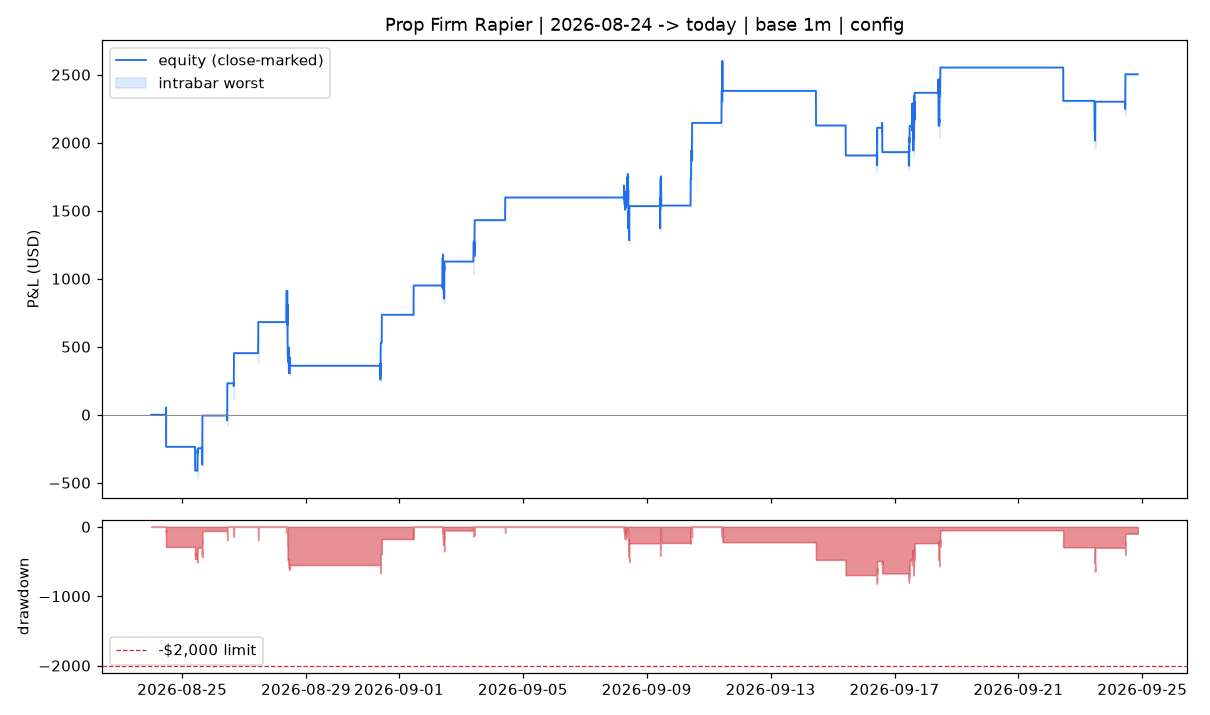
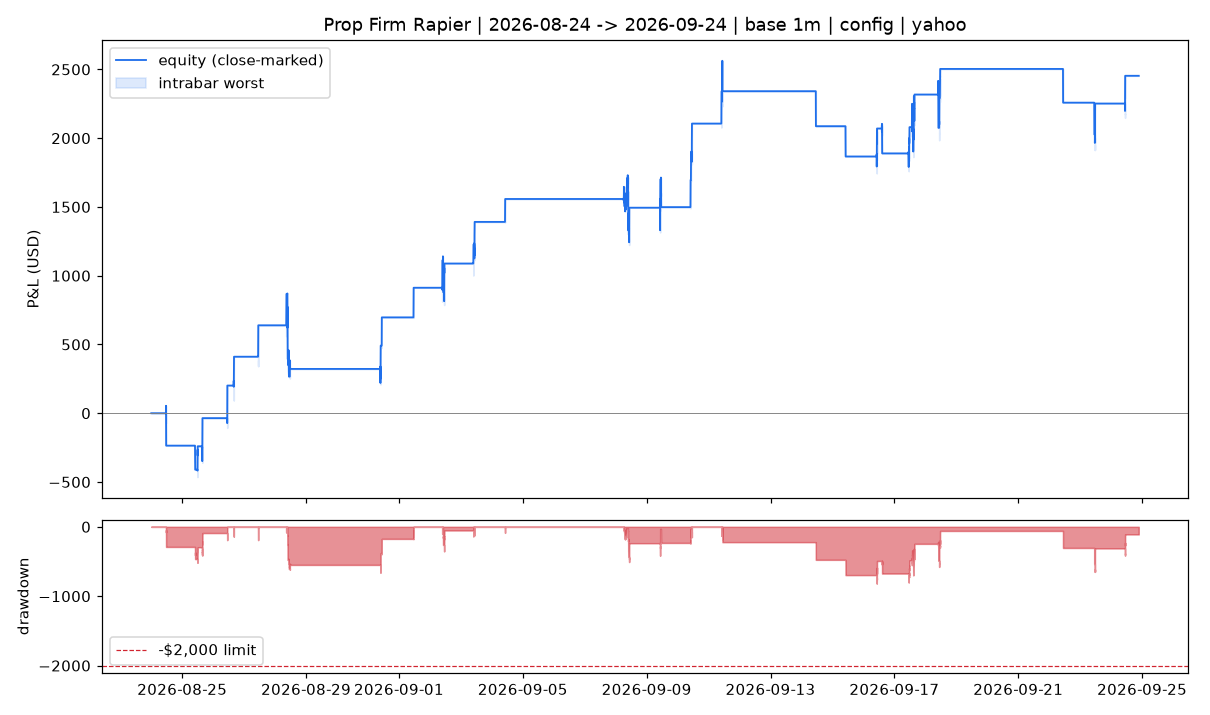
Fill-realistic market entries: backtest at next open, live target re-anchored on the real fill
FX Replay verification (37/37 matched trades) found market entries filling -8..+17
ticks from the engine price, which left some brackets below 1R.

* backtest: confirmation entries fill at the next bar's open + slippage (session
  gaps fall back to the close); 5m/1m reports regenerated, no outcome flips
* executor: after a market entry fills, move its target to the planned R from the
  actual fill (brokers exposing fill_price/amend_target: IBKR, SimBroker)
* Tradara keeps the static 2-tick pad (no documented modify endpoint)
* SimBroker(oca=False) to measure Tradara's lack of cross-group OCA
* tests for adverse/good fills, no-amend fallback and the IBKR modify path

diff --git a/rapier/executor.py b/rapier/executor.py
@@ -120,8 +120,9 @@ class Executor:
         return None
 
     def _place(self, key: str, book: str, side: int, mnq: int, entry, stop, target, last, out,
-               ref_entry: float | None = None) -> bool:
-        """``entry=None`` sends a market entry; ``ref_entry`` is the engine's price for it."""
+               ref_entry: float | None = None, r_mult: float | None = None) -> bool:
+        """``entry=None`` sends a market entry; ``ref_entry`` is the engine's price for it and
+        ``r_mult`` its planned reward:risk, re-applied to the real fill where the broker allows."""
         qty = self._qty(mnq)
         if qty < 1:
             self._note(f"skip {key}: size {mnq} MNQ is below one {self.broker.name} contract", out, f"small:{key}")
@@ -137,11 +138,37 @@ class Executor:
         self.state["orders"][key] = {"attempt": rec["attempt"] + 1, "prefix": prefix, "book": book,
                                      "status": "sent", "side": side, "qty": qty,
                                      "levels": [None if entry is None else round_tick(entry),
-                                                round_tick(stop), round_tick(target)]}
+                                                round_tick(stop), round_tick(target)],
+                                     "r_mult": r_mult}
         self._note(f"PLACE {book} {'BUY' if side > 0 else 'SELL'} x{qty} "
                    f"entry={'MKT' if entry is None else round_tick(entry)} stop={round_tick(stop)} "
                    f"target={round_tick(target)} [{prefix}]", out)
         return True
+
+    def _reanchor_targets(self, out: list) -> None:
+        """Market entries fill away from the engine's price (FX Replay: -8..+17 ticks), so move
+        each filled market bracket's target to the planned R measured from the actual fill."""
+        fill_price = getattr(self.broker, "fill_price", None)
+        amend = getattr(self.broker, "amend_target", None)
+        if not (fill_price and amend):
+            return  # e.g. Tradara: no documented amend; the static slippage pad stays
+        active = {p for p, g in self.broker.groups().items() if g["state"] == "active"}
+        for rec in self.state["orders"].values():
+            p = rec.get("prefix")
+            if rec.get("r_mult") is None or rec.get("reanchored") or p not in active:
+                continue
+            fill = fill_price(p)
+            if fill is None:
+                continue
+            rec["reanchored"] = True
+            side, stop, old = rec["side"], rec["levels"][1], rec["levels"][2]
+            if side * (fill - stop) <= 0:
+                continue  # filled through the stop; the stop order handles it
+            new = round_out(fill + side * rec["r_mult"] * abs(fill - stop), side)
+            if new != old and amend(p, new):
+                rec["levels"][2] = new
+                self._note(f"AMEND {p}: filled {fill}, target {old} -> {new} "
+                           f"({rec['r_mult']:.2f}R from the actual fill)", out)
 
     def _kill(self, reason: str, day: str, out: list) -> None:
         self.broker.flatten()
@@ -202,12 +229,15 @@ class Executor:
             key = f"{t.book}:{t.side}:{t.entry_time}"
             if t.book in v.confirm_books and t.entry_time == v.last_bar and pos == 0 and key not in self.state["orders"]:
                 pad = 2 * self.cfg.market_slip_ticks * 0.25
+                r_mult = t.side * (t.tp1 - t.entry) / abs(t.entry - t.cur_stop)
                 if self._place(key, t.book, t.side, t.qty, None, t.cur_stop, round_out(t.tp1 + t.side * pad, t.side),
-                               v.last_close, out, ref_entry=t.entry):
+                               v.last_close, out, ref_entry=t.entry, r_mult=r_mult):
                     pos = t.side  # treat as filled for the OCA logic below
+                    self._reanchor_targets(out)
 
         # one position at a time: a live position cancels every other working entry
         if pos:
+            self._reanchor_targets(out)
             for p, g in groups.items():
                 if g["state"] == "working":
                     self.broker.cancel(p)

diff --git a/rapier/brokers/base.py b/rapier/brokers/base.py
@@ -52,6 +52,9 @@ class Broker(Protocol):
     def cancel(self, prefix: str) -> None: ...
     def flatten(self) -> None: ...
     def day_pnl(self) -> float | None: ...
+    # optional: brokers that can report entry fills and move a working target implement
+    #   fill_price(prefix) -> float | None   and   amend_target(prefix, target) -> bool
+    # so the executor can re-anchor a market entry's target on the real fill price
 
 
 class DryRunBroker:
@@ -122,6 +125,7 @@ class SimBroker:
     thru: float = TICK
     units_per_contract: int = 1
     name: str = "sim"
+    oca: bool = True  # False mimics Tradara: separate OTOCO groups, no cross-cancel
     _g: dict = field(default_factory=dict)
     _pos: int = 0
     _flatten: bool = False
@@ -143,6 +147,17 @@ class SimBroker:
         g = self._g.get(prefix)
         if g and g.state == "working":
             g.state = "cancelled"
+
+    def fill_price(self, prefix):
+        g = self._g.get(prefix)
+        return g.fill if g and g.state == "active" else None
+
+    def amend_target(self, prefix, target):
+        g = self._g.get(prefix)
+        if not (g and g.state == "active"):
+            return False
+        g.target = target
+        return True
 
     def flatten(self):
         self._flatten = True
@@ -174,7 +189,7 @@ class SimBroker:
                 elif g.side * (favor - g.target) >= 0:
                     self._close(p, g, g.target, t, "target")
         for p, g in list(self._g.items()):
-            if g.state != "working" or self._pos != 0:
+            if g.state != "working" or (self.oca and self._pos != 0):
                 continue
             if g.entry is None:
                 g.fill = o + g.side * self.slip
@@ -184,15 +199,17 @@ class SimBroker:
                 continue
             g.state, g.fill_time = "active", t
             self._pos += g.side * g.qty
-            for q in self._g.values():  # OCA
-                if q is not g and q.state == "working":
-                    q.state = "cancelled"
+            if self.oca:
+                for q in self._g.values():
+                    if q is not g and q.state == "working":
+                        q.state = "cancelled"
             adverse = l if g.side > 0 else h
             if g.side * (adverse - g.stop) <= 0:
                 self._close(p, g, g.stop - g.side * self.slip, t, "stop")
             elif g.side * (c - g.target) >= 0 and g.entry is not None:
                 self._close(p, g, g.target, t, "target")
-            break
+            if self.oca:
+                break
 
 
 def _root_of(symbol: str) -> str:

diff --git a/tests/test_executor.py b/tests/test_executor.py
@@ -209,3 +209,41 @@ def test_state_persists_across_restart(tmp_path):
     assert json.loads(p.read_text())["orders"]["ote-1h:1:100"]["prefix"] == prefix_for("ote-1h:1:100")
     ex2 = Executor(b, state_path=p)
     assert ex2.step(view(armed=[limit()]), wall()) == []
+
+
+def _market_entry(broker, open_px):
+    ex = Executor(broker, ExecConfig(live_books=("scalp-5m",)))
+    tr = SimpleNamespace(book="scalp-5m", side=1, qty=5, entry=20010.25, cur_stop=19980.0, tp1=20040.5, entry_time=T0)
+    ex.step(view(open_trades=[tr], confirm_books=frozenset({"scalp-5m"})), wall())
+    if isinstance(broker, SimBroker):
+        broker.on_bar(T0 + pd.Timedelta("1min"), open_px, open_px + 0.5, open_px - 0.5, open_px)
+    t1 = T0 + pd.Timedelta("1min")
+    return ex, tr, ex.step(view(t1, open_trades=[tr], confirm_books=frozenset({"scalp-5m"})), wall(t1))
+
+
+def test_market_target_reanchored_on_adverse_fill():
+    # FX Replay case: a market entry filled 17 ticks worse than the engine price -> 0.87R
+    b = SimBroker()
+    ex, tr, out = _market_entry(b, 20014.25)
+    (g,) = b._g.values()
+    assert g.fill == 20014.5
+    assert any(m.startswith("AMEND") for m in out)
+    assert g.target - g.fill >= g.fill - g.stop  # >= 1R from the real fill
+    assert g.target == 20049.0
+    # done once: a later cycle leaves it alone
+    t2 = T0 + pd.Timedelta("2min")
+    assert not any("AMEND" in m for m in ex.step(view(t2, open_trades=[tr]), wall(t2)))
+
+
+def test_market_target_pad_removed_on_good_fill():
+    b = SimBroker()
+    _, _, out = _market_entry(b, 20008.0)
+    (g,) = b._g.values()
+    assert g.target - g.fill == pytest.approx(g.fill - g.stop, abs=0.25)
+
+
+def test_brokers_without_amend_keep_the_static_pad():
+    b = DryRunBroker()
+    _, _, out = _market_entry(b, 20014.25)
+    assert not any("AMEND" in m for m in out)
+    assert b.log[0][-1] == 20041.5  # tp1 + 2 x 2 ticks

diff --git a/rapier/backtest.py b/rapier/backtest.py
@@ -199,6 +199,7 @@ def run(mkt: Market, books: tuple[BookConfig, ...], risk: RiskConfig,
     f_sph = feat["swept_pdh"].fillna(False).to_numpy(dtype=bool)
     t_ns = base.index.asi8
     o, h, l, c = (base[x].to_numpy() for x in ("open", "high", "low", "close"))
+    bar_len = base.index.to_series().diff().median() if len(base) > 1 else pd.Timedelta(0)
     base_delta = pd.Timedelta(mkt.base.index.to_series().diff().mode().iloc[0])
     hours = (base.index.hour + base.index.minute / 60).to_numpy()
     end_hours = hours + base_delta / pd.Timedelta("1h")
@@ -328,7 +329,11 @@ def run(mkt: Market, books: tuple[BookConfig, ...], risk: RiskConfig,
                     pending.pop(bi_)
                 elif side * (c[i] - o[i]) > 0 and side * (c[i] - pd_["E"]) > 0:
                     pending.pop(bi_)
-                    entry = c[i] + side * slip
+                    # the market order goes out after this close and fills at the next bar's
+                    # open (FX Replay showed up to 17 ticks between the two); a session gap
+                    # falls back to the close
+                    contiguous = i + 1 < len(o) and base.index[i + 1] - when <= 2 * bar_len
+                    entry = (o[i + 1] if contiguous else c[i]) + side * slip
                     if pd_["cfg"].fixed_stop_pts:
                         stop = entry - side * pd_["cfg"].fixed_stop_pts
                     _open(pd_["cfg"], bi_, side, entry, stop, pd_["H"], pd_["D"], when, i,

diff --git a/tests/test_brokers.py b/tests/test_brokers.py
@@ -143,3 +143,25 @@ def test_frames_from_1m_splices_long_history():
     assert fr["1h"].index[0] == h1.index[0]
     assert fr["1h"].close.loc[: "2026-09-14 08:00"].eq(100.0).all()  # shifted by the overlap difference
     assert set(fr) == {"1m", "5m", "15m", "1h"}
+
+
+def test_ibkr_fill_price_and_target_amend():
+    from types import SimpleNamespace as NS
+
+    from rapier.brokers.ibkr import IBKRBroker
+
+    def trade(pid, typ, status, avg=0.0, px=None):
+        o = NS(orderRef="rp-a", parentId=pid, orderType=typ, lmtPrice=px, transmit=False)
+        return NS(order=o, orderStatus=NS(status=status, avgFillPrice=avg), isDone=lambda: status == "Filled")
+
+    parent, tp = trade(0, "MKT", "Filled", 20014.5), trade(1, "LMT", "Submitted", px=20041.5)
+    placed = []
+    ib = NS(isConnected=lambda: True, trades=lambda: [parent, tp, trade(1, "STP", "Submitted")],
+            placeOrder=lambda c, o: placed.append(o), sleep=lambda s: None)
+    b = IBKRBroker(ib=ib)
+    b._c = NS(conId=1)
+    b.contract = lambda: b._c
+    assert b.fill_price("rp-a") == 20014.5
+    assert b.fill_price("rp-zz") is None
+    assert b.amend_target("rp-a", 20049.0) and placed == [tp.order]
+    assert tp.order.lmtPrice == 20049.0 and tp.order.transmit

diff --git a/rapier/brokers/ibkr.py b/rapier/brokers/ibkr.py
@@ -93,6 +93,28 @@ class IBKRBroker:
             if t.order.orderRef == prefix:
                 self._conn().cancelOrder(t.order)
 
+    def _by_ref(self, prefix):
+        # trades() also holds finished orders; a filled parent drops out of openTrades()
+        return [t for t in self._conn().trades() if t.order.orderRef == prefix]
+
+    def fill_price(self, prefix):
+        for attempt in range(2):
+            for t in self._by_ref(prefix):
+                if t.order.parentId == 0 and t.orderStatus.status == "Filled" and t.orderStatus.avgFillPrice:
+                    return float(t.orderStatus.avgFillPrice)
+            if attempt == 0:
+                self._conn().sleep(0.5)  # let a just-sent market order's fill arrive
+        return None
+
+    def amend_target(self, prefix, target):
+        for t in self._by_ref(prefix):
+            if t.order.parentId != 0 and t.order.orderType == "LMT" and not t.isDone():
+                t.order.lmtPrice = round_tick(target)
+                t.order.transmit = True
+                self._conn().placeOrder(self.contract(), t.order)  # same orderId = modify
+                return True
+        return False
+
     def flatten(self):
         from ib_async import MarketOrder
 

diff --git a/README.md b/README.md
@@ -63,17 +63,19 @@ The final parameters live in [`rapier/rapier_config.json`](rapier/rapier_config.
 
 All numbers are after commissions ($1.50 per micro round turn) and 1-tick slippage on stops, with a
 conservative fill model (see *Backtest realism*). Drawdown is marked to the worst intrabar price.
+Market entries (confirmation books such as `scalp-5m`) fill at the **next bar's open** plus 1 tick, not at
+the signal close. FX Replay verification showed live market fills landing up to 17 ticks from the close.
 
 | run | period | trades | win rate | net | max DD | best trade | PF |
 |---|---|---|---|---|---|---|---|
 | **Main (requested window)** | 2025-07-26 → 2026-09-24 | 20 | **60.0%** | **+$2,793** | **$892** | $1,614 | 2.25 |
 | Out-of-sample (never optimised on) | 2024-06-15 → 2025-07-25 | 32 | 65.6% | +$1,925 | $992 | $400 | 1.70 |
-| Books up to 5m, 5m clock | 2026-06-26 → 2026-09-24 | 29 | 72.4% | +$2,710 | $754 | $246 | 2.80 |
-| All books incl. teacher-1m, 1m clock | 2026-08-24 → 2026-09-24 | 44 | 65.9% | +$2,503 | $819 | $242 | 1.76 |
+| Books up to 5m, 5m clock | 2026-06-26 → 2026-09-24 | 29 | 72.4% | +$2,551 | $668 | $244 | 2.69 |
+| All books incl. teacher-1m, 1m clock | 2026-08-24 → 2026-09-24 | 44 | 65.9% | +$2,454 | $819 | $237 | 1.75 |
 | Swing-overnight variant | 2025-07-26 → 2026-09-24 | 19 | 63.2% | +$3,881 | $1,791 | $3,287 | 2.73 |
 
 Per book:
-* **`scalp-5m`:** 28 trades, 75% WR, +$2,970.
+* **`scalp-5m`:** 28 trades, 75% WR, +$2,811.
   * Its settings were frozen before the 2026-06-26 → 07-19 tape was imported. On that unseen slice it won 6 of 7.
   * Selection period (07-20 → 08-21): 8 of 11.
   * Check period (08-22 → 09-24): 7 of 10.
@@ -190,6 +192,9 @@ IB Gateway (read-only API)  ->  rapier trade  ->  executor + safety rails  ->  T
   desired state, and the executor sends only the difference:
   * places or cancels resting OTE limits;
   * sends a market bracket when a confirmation book enters;
+  * once that market entry fills, moves its target so the planned R is measured from the **actual fill**
+    (IBKR and the simulator). Tradara has no documented order-modify endpoint, so it keeps a static
+    2-tick target pad instead;
   * cancels all other entries once a position is open;
   * flattens at each book's flat time and at 16:40 ET.
 * **Replay-verified.** `rapier.replay` walks history one closed 1m bar at a time through engine ->
@@ -212,7 +217,8 @@ IB Gateway (read-only API)  ->  rapier trade  ->  executor + safety rails  ->  T
 | daily loss kill switch | at -$600 (configurable) it cancels, flattens and stays off until the next trading day |
 | stale data | no new bar for 3 minutes -> working entries cancelled, nothing new sent |
 | order sanity | entry within 3% of market, stop/target on the right side, target >= 1R after tick rounding, size caps |
-| one position at a time | a position cancels every other working entry (IBKR paper uses a native OCA group) |
+| one position at a time | a position cancels every other working entry. IBKR uses a native OCA group; on Tradara the executor cancels the others on its next 1-minute cycle |
+| >= 1R from the real fill | market-entry targets are re-anchored on the broker's reported fill price (where the broker supports it) |
 | idempotent | deterministic `rp-` order ids and state file: a restart never duplicates an order, and a signal that vanished (filled) is never re-sent |
 
 ### Setup (on the machine running IB Gateway)

diff --git a/results/recent_5m_all_books_2026-06-26_to_2026-09-24/summary.md b/results/recent_5m_all_books_2026-06-26_to_2026-09-24/summary.md
@@ -1,4 +1,4 @@
-# Prop Firm Rapier | 2026-06-26 -> today | base 5m | config
+# Prop Firm Rapier | 2026-06-26 -> 2026-09-24 | base 5m | config | yahoo
 
 | metric | value |
 |---|---|
@@ -6,18 +6,18 @@
 | wins | 21 |
 | losses | 8 |
 | win_rate | 0.72 |
-| net_usd | 2,710.05 |
+| net_usd | 2,550.75 |
 | avg_r | 0.44 |
 | avg_win_r | 0.96 |
 | avg_loss_r | -0.93 |
-| profit_factor | 2.80 |
-| best_trade_usd | 245.60 |
+| profit_factor | 2.69 |
+| best_trade_usd | 243.97 |
 | worst_trade_usd | -260.11 |
 | min_planned_rr | 1.00 |
-| max_dd_usd | 754.12 |
-| max_dd_closed_usd | 532.54 |
-| worst_day_usd | -405.15 |
-| best_day_usd | 476.58 |
+| max_dd_usd | 667.62 |
+| max_dd_closed_usd | 533.04 |
+| worst_day_usd | -405.65 |
+| best_day_usd | 475.08 |
 | max_consec_losses | 3 |
 | tp1_hit_rate | 0.69 |
 
@@ -34,13 +34,13 @@
 
 | book     |   trades |   win_rate |   net_usd |   avg_r |   best_usd |
 |:---------|---------:|-----------:|----------:|--------:|-----------:|
-| scalp-5m |       28 |       0.75 |   2970.16 |    0.49 |     245.6  |
+| scalp-5m |       28 |       0.75 |   2810.86 |    0.49 |     243.97 |
 | swing-4h |        1 |       0    |   -260.11 |   -1.01 |    -260.11 |
 
 ## Monthly P&L (USD)
 
 | exit_time   |   pnl |
 |:------------|------:|
-| 2026-07     |  1016 |
-| 2026-08     |  1493 |
-| 2026-09     |   201 |
+| 2026-07     |  1003 |
+| 2026-08     |  1482 |
+| 2026-09     |    66 |

diff --git a/results/recent_1m_all_books_2026-08-24_to_2026-09-24/summary.md b/results/recent_1m_all_books_2026-08-24_to_2026-09-24/summary.md
@@ -1,4 +1,4 @@
-# Prop Firm Rapier | 2026-08-24 -> today | base 1m | config
+# Prop Firm Rapier | 2026-08-24 -> 2026-09-24 | base 1m | config | yahoo
 
 | metric | value |
 |---|---|
@@ -6,17 +6,17 @@
 | wins | 29 |
 | losses | 15 |
 | win_rate | 0.66 |
-| net_usd | 2,503.17 |
+| net_usd | 2,453.53 |
 | avg_r | 0.27 |
 | avg_win_r | 0.95 |
 | avg_loss_r | -1.03 |
-| profit_factor | 1.76 |
-| best_trade_usd | 242.34 |
+| profit_factor | 1.75 |
+| best_trade_usd | 237.34 |
 | worst_trade_usd | -260.11 |
 | min_planned_rr | 1.00 |
 | max_dd_usd | 818.85 |
 | max_dd_closed_usd | 674.84 |
-| worst_day_usd | -321.24 |
+| worst_day_usd | -317.24 |
 | best_day_usd | 607.57 |
 | max_consec_losses | 3 |
 | tp1_hit_rate | 0.64 |
@@ -34,7 +34,7 @@
 
 | book       |   trades |   win_rate |   net_usd |   avg_r |   best_usd |
 |:-----------|---------:|-----------:|----------:|--------:|-----------:|
-| scalp-5m   |        9 |       0.78 |   1001.63 |    0.53 |     242.34 |
+| scalp-5m   |        9 |       0.78 |    951.98 |    0.53 |     237.34 |
 | swing-4h   |        1 |       0    |   -260.11 |   -1.01 |    -260.11 |
 | teacher-1m |       34 |       0.65 |   1761.66 |    0.24 |     236.86 |
 
@@ -42,5 +42,5 @@
 
 | exit_time   |   pnl |
 |:------------|------:|
-| 2026-08     |   735 |
-| 2026-09     |  1768 |
+| 2026-08     |   697 |
+| 2026-09     |  1757 |
